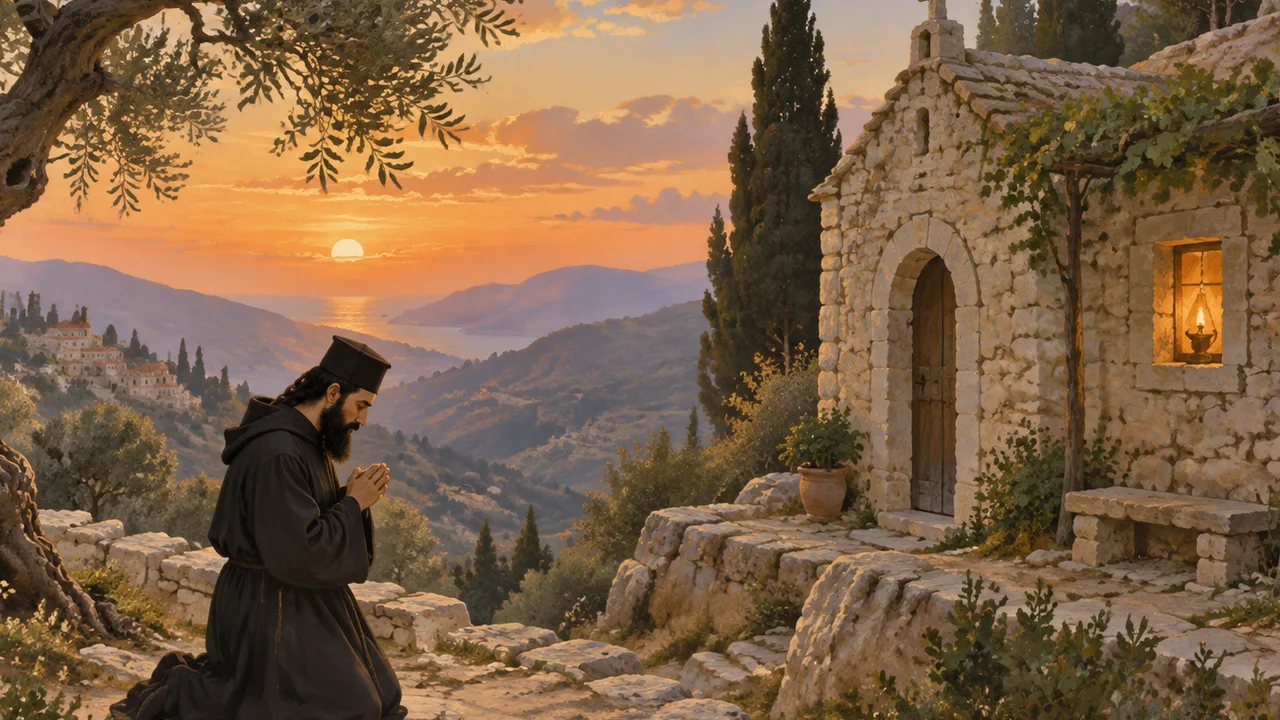
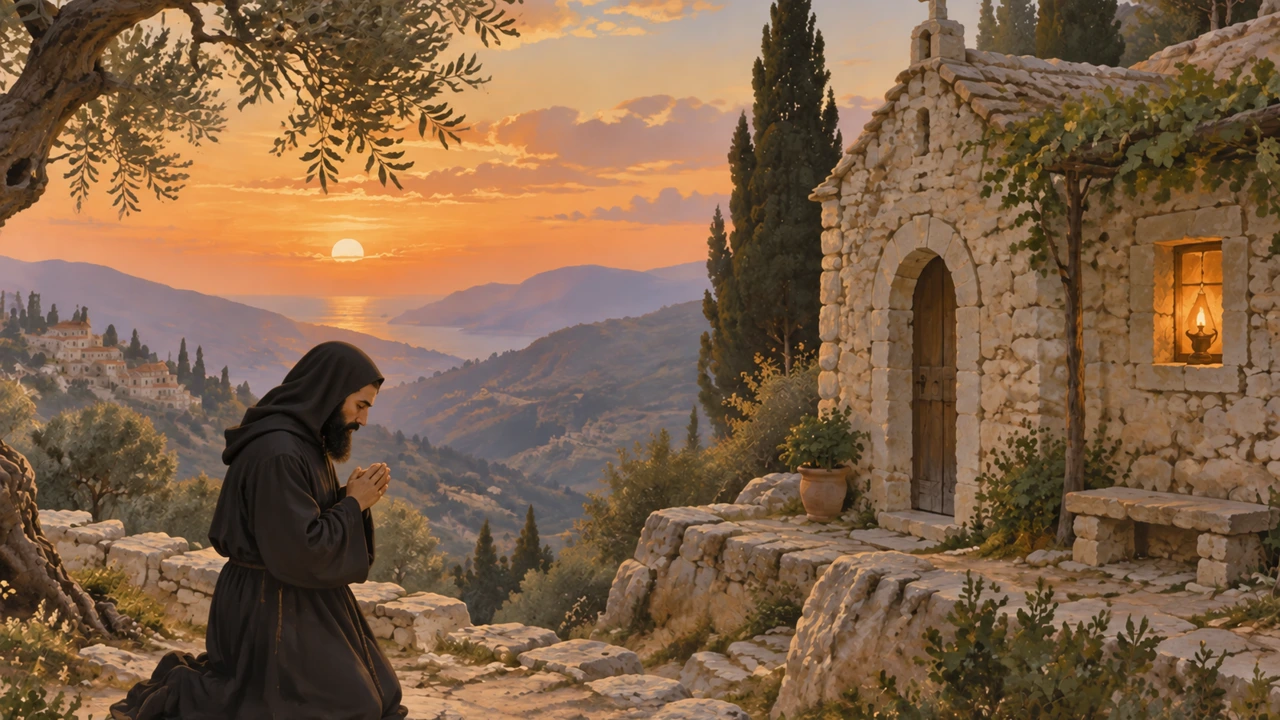
charbel-v2 art: draped Maronite hood on pages 4/5/6/7 (was stiff flat-topped cap); art-plan spec corrected (root cause)

diff --git a/story-production/charbel-v2/art-plan.md b/story-production/charbel-v2/art-plan.md
@@ -1,6 +1,6 @@
 # Saint Charbel storybook v2: scene plan (new art style, matches series)
 
-All images are imaginative painterly 16:9 scenes, never documentary images, and never copies of the historic photographs of Charbel. Keep the series' Levantine mountain palette of warm apricot, cream, olive, and blue; child-facing mood warm and welcoming without minimizing sorrow. Consistent hero: Youssef is a dark-haired Lebanese boy in simple 19th-century mountain village dress; young monk Charbel wears the black Maronite monastic habit with the monastic cap, dark beard; older Father Charbel has a long white beard and the same black habit. No stigmata imagery, no beams of literal heavenly light except the gentle, clearly-labeled lamp and tomb-light scenes, no text painted inside images.
+All images are imaginative painterly 16:9 scenes, never documentary images, and never copies of the historic photographs of Charbel. Keep the series' Levantine mountain palette of warm apricot, cream, olive, and blue; child-facing mood warm and welcoming without minimizing sorrow. Consistent hero: Youssef is a dark-haired Lebanese boy in simple 19th-century mountain village dress; young monk Charbel wears the black Maronite monastic habit with the soft draped monastic hood (plain cloth draping over the head and shoulders), dark beard; older Father Charbel has a long white beard and the same black habit and draped hood. NEVER a stiff flat-topped cap, kamilavka, or any structured/cylindrical headwear on any monk - the standing rule is the Maronite draped hood/cape only. No stigmata imagery, no beams of literal heavenly light except the gentle, clearly-labeled lamp and tomb-light scenes, no text painted inside images.
 
 | Page | Narrative | Scene | Visual guardrail |
 |---|---|---|---|
@@ -15,6 +15,8 @@ All images are imaginative painterly 16:9 scenes, never documentary images, and 
 | 9 | Tomb lights and canonization | Pilgrims of many ages and countries walking toward the Annaya monastery at dawn, a soft light above the tomb chapel | Light reported, not asserted: keep it a warm glow, no laser beams, no crowd faces copying real people. |
 | 10 | Points of reflection | Modern-day children: one praying quietly by a window, one washing dishes, one feeding an animal, warm evening light | Clearly modern clothes, distinct from historical scenes; reflection text lives in the player as HTML, not painted in the image. |
 
-Render at 16:9 (1429x804 source), inspect pixels per page, reject continuity errors (wrong beard era, wrong habit, impossible architecture), then convert to 1280x720 WebP center-cropped. Illustrations are original composite scenes, not historical footage - the page says so in its production note.
+Render at 16:9 (1429x804 source), inspect pixels per page, reject continuity errors (wrong beard era, wrong habit, stiff or flat-topped headwear, impossible architecture), then convert to 1280x720 WebP center-cropped. Illustrations are original composite scenes, not historical footage - the page says so in its production note.
 
 Final art review, September 29, 2026: ten original 1429x804 illustrations were rendered and inspected pixel by pixel, then exported at 1280x720 WebP. Page 5 was corrected with an image edit because the first render showed an elderly white-bearded celebrant at his 1859 ordination; the final plate has a dark-bearded young priest. Page 10 uses the neutral `birth` scene treatment in the player to avoid the original `legacy` filter that obscured the modern children. No lettering, historical-photo copying, graphic illness or death, or exaggerated miracle beams appeared in the final plates. The pages are imaginative composite scenes and are labeled as such in the player.
+
+Headwear correction, October 11, 2026: pages 4, 5, 6 and 7 were re-rendered via targeted image edit after studio review found stiff flat-topped caps (the plan text above said "monastic cap" - root cause, now corrected). All monastic figures now wear the soft draped Maronite hood; page 8 was adjudicated clean (all three lantern monks already draped). Page texts, compositions, palettes and all other figures unchanged.
